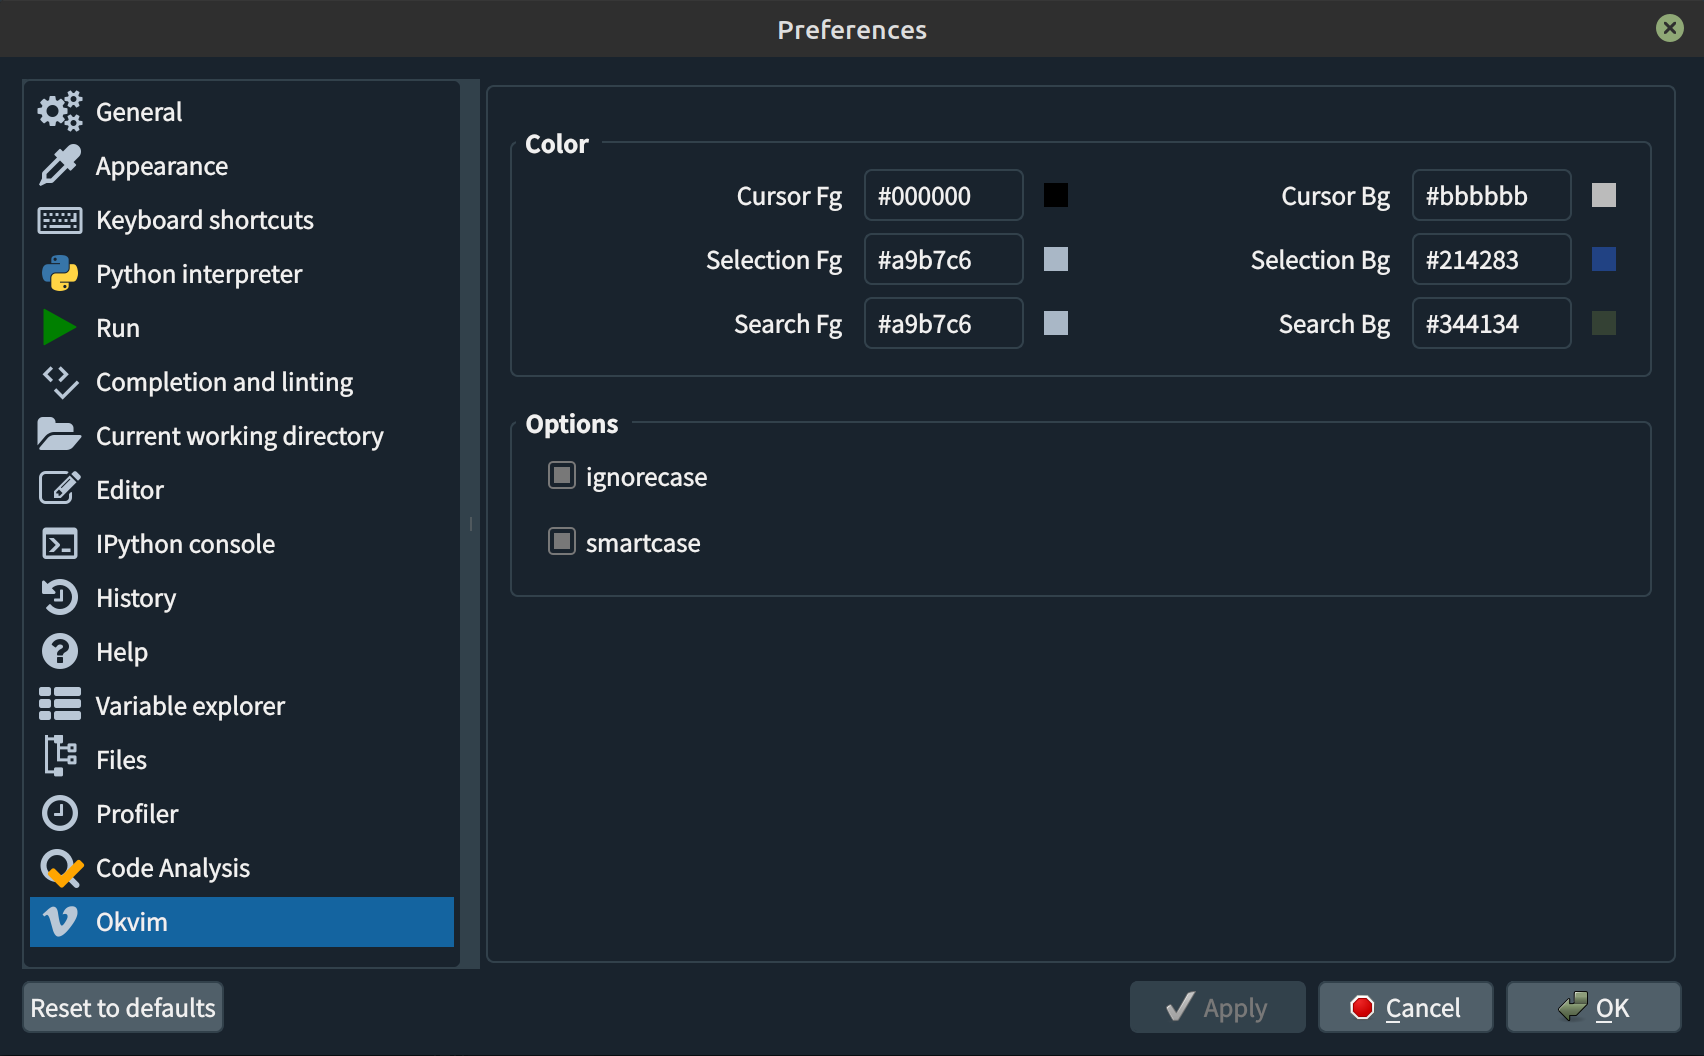
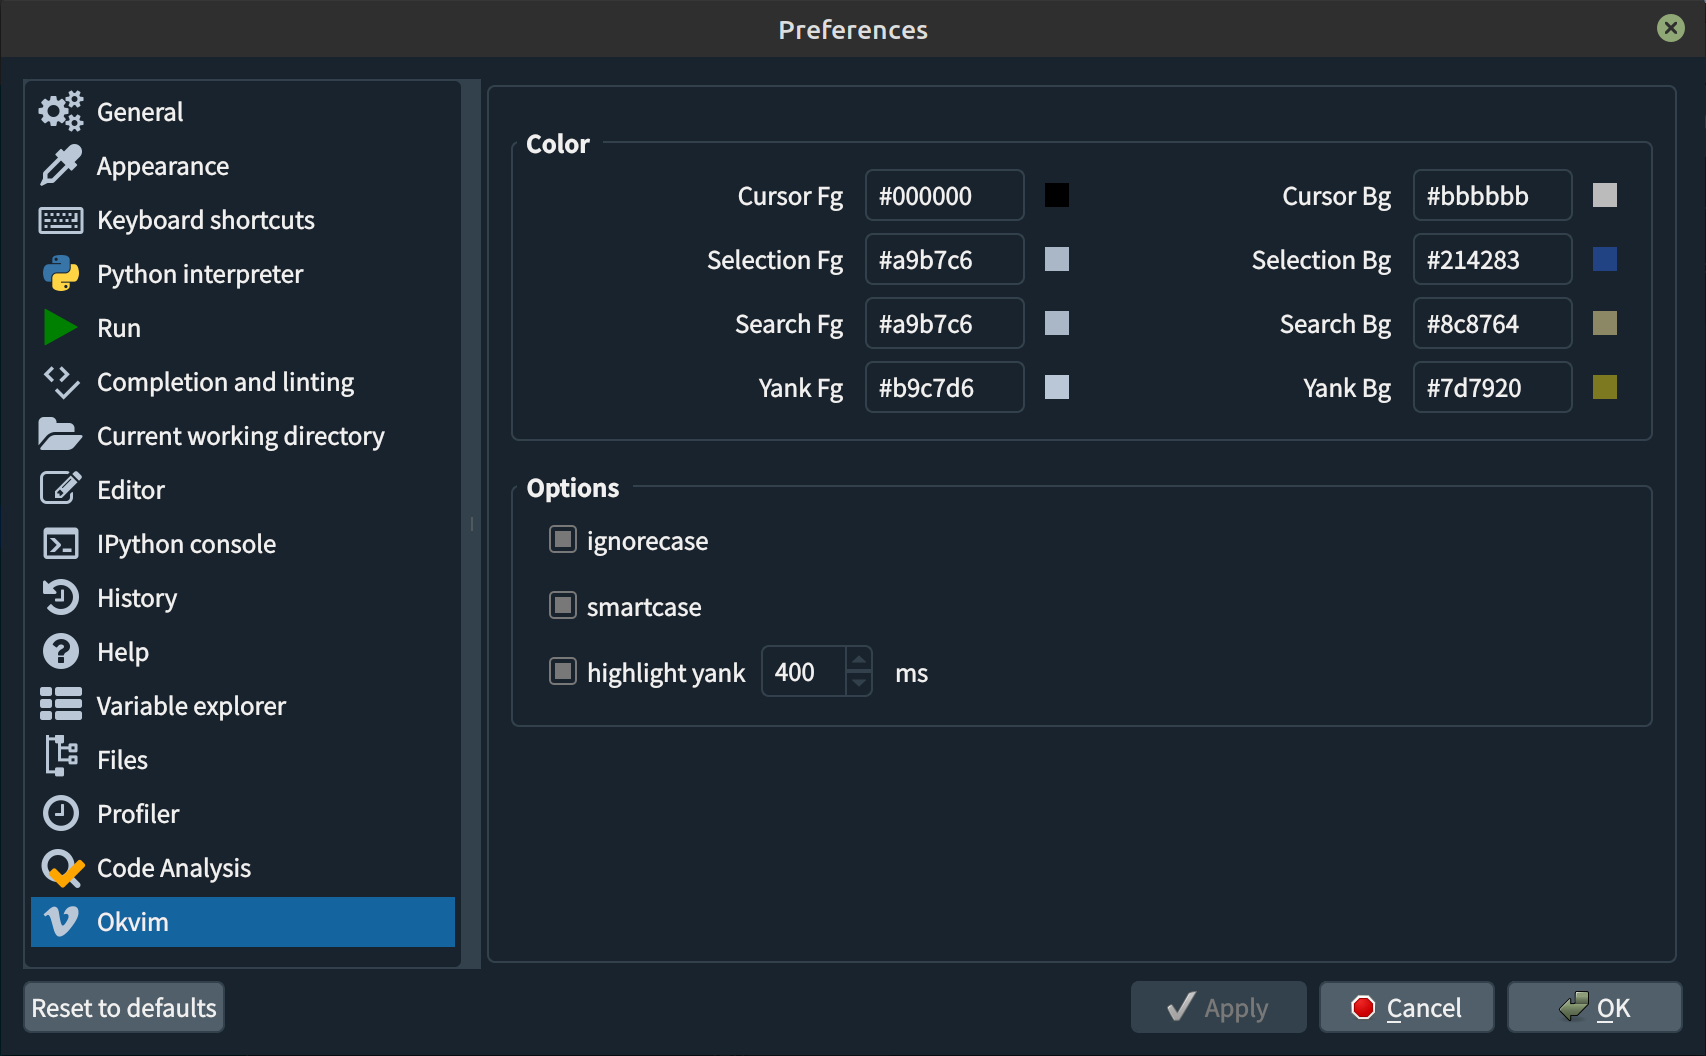
highlight after yank

diff --git a/spyder_okvim/utils/vim_status.py b/spyder_okvim/utils/vim_status.py
@@ -202,10 +202,15 @@ class VimCursor:
         self.selection.format.setForeground(QBrush(QColor('#A9B7C6')))
         self.selection.format.setBackground(QBrush(QColor('#214283')))
 
-        self.set_color()
+        self.yank_fg_color = QBrush(QColor('#B9C7D6'))
+        self.yank_bg_color = QBrush(QColor('#7D7920'))
+        self.hl_yank_dur = 400  # duration of highlight after yank
+        self.hl_yank = True
 
-    def set_color(self):
-        """Set the color of vim cursor."""
+        self.set_config_from_conf()
+
+    def set_config_from_conf(self):
+        """Set config from conf."""
         self.vim_cursor.format.setForeground(QBrush(QColor(
             CONF.get(CONF_SECTION, 'cursor_fg_color'))))
         self.vim_cursor.format.setBackground(QBrush(QColor(
@@ -216,6 +221,12 @@ class VimCursor:
         self.selection.format.setBackground(QBrush(QColor(
             CONF.get(CONF_SECTION, 'select_bg_color'))))
 
+        self.yank_fg_color = QBrush(QColor(
+            CONF.get(CONF_SECTION, 'yank_fg_color')))
+        self.yank_bg_color = QBrush(QColor(
+            CONF.get(CONF_SECTION, 'yank_bg_color')))
+        self.hl_yank_dur = CONF.get(CONF_SECTION, 'highlight_yank_duration')
+        self.hl_yank = CONF.get(CONF_SECTION, 'highlight_yank')
 
     def get_editor(self):
         """Get the editor focused."""
@@ -492,6 +503,26 @@ class VimCursor:
     def apply_motion_info_in_vline(self, motion_info: MotionInfo):
         """Apply motion info in visual mode."""
         self.set_cursor_pos_in_vline(motion_info.cursor_pos)
+
+    def highlight_yank(self, pos_start, pos_end):
+        """Highlight after yank."""
+        if self.hl_yank is False:
+            return
+
+        cursor = self.get_cursor()
+        editor = self.get_editor()
+        sel = QTextEdit.ExtraSelection()
+        sel.format.setForeground(self.yank_fg_color)
+        sel.format.setBackground(self.yank_bg_color)
+        sel.cursor = cursor
+
+        sel.cursor.setPosition(pos_start)
+        sel.cursor.setPosition(pos_end, QTextCursor.KeepAnchor)
+        editor.set_extra_selections("hl_yank", [sel])
+
+        QTimer.singleShot(
+            self.hl_yank_dur,
+            lambda: editor.clear_extra_selections("hl_yank"))
 
 
 class VimStatus(QObject):

diff --git a/spyder_okvim/confpage.py b/spyder_okvim/confpage.py
@@ -8,7 +8,7 @@
 from qtpy.QtCore import QRegExp, Qt
 from qtpy.QtGui import QRegExpValidator
 from qtpy.QtWidgets import (
-    QGridLayout, QGroupBox, QLabel, QVBoxLayout,)
+    QGridLayout, QGroupBox, QHBoxLayout, QLabel, QVBoxLayout,)
 from spyder.api.preferences import PluginConfigPage
 from spyder.config.base import _
 
@@ -18,6 +18,7 @@ class OkvimConfigPage(PluginConfigPage):
         """Create configuration page."""
         newcb = self.create_checkbox
         newce = self.create_coloredit
+        newsb = self.create_spinbox
 
         color_group = QGroupBox("Color")
         color_layout = QGridLayout()
@@ -29,6 +30,8 @@ class OkvimConfigPage(PluginConfigPage):
                 'Selection Bg': ('select_bg_color', 1, 2),
                 'Search Fg': ('search_fg_color', 2, 0),
                 'Search Bg': ('search_bg_color', 2, 2),
+                'Yank Fg': ('yank_fg_color', 3, 0),
+                'Yank Bg': ('yank_bg_color', 3, 2),
                 }
 
         for name, (option_name, idx_row, idx_col) in conf_color_info.items():
@@ -44,6 +47,12 @@ class OkvimConfigPage(PluginConfigPage):
         options_layout = QVBoxLayout()
         options_layout.addWidget(newcb("ignorecase", "ignorecase"))
         options_layout.addWidget(newcb("smartcase", "smartcase"))
+
+        hl_yank_layout = QHBoxLayout()
+        hl_yank_layout.addWidget(newcb("highlight yank", "highlight_yank"))
+        hl_yank_layout.addWidget(newsb(None, 'ms', "highlight_yank_duration",
+                                       min_=0, max_=2000, step=100))
+        options_layout.addLayout(hl_yank_layout)
 
         options_group.setLayout(options_layout)
         options_layout.addStretch(1)

diff --git a/spyder_okvim/config.py b/spyder_okvim/config.py
@@ -12,12 +12,16 @@ CONF_DEFAULTS = [
      {
       'ignorecase': True,
       'smartcase': True,
+      'highlight_yank': True,
+      'highlight_yank_duration': 400,
       'cursor_fg_color': "#000000",
       'cursor_bg_color': "#BBBBBB",
       'select_fg_color': "#A9B7C6",
       'select_bg_color': "#214283",
       'search_fg_color': "#A9B7C6",
-      'search_bg_color': "#344134"
+      'search_bg_color': "#30652F",
+      'yank_fg_color': "#A9B7C6",
+      'yank_bg_color': "#7D7920"
      }
      ),
     ('shortcuts',

diff --git a/spyder_okvim/utils/helper_action.py b/spyder_okvim/utils/helper_action.py
@@ -306,6 +306,11 @@ class HelperAction:
         if is_explicit is True and register_name == '"':
             self.vim_status.set_register('0', txt, register_type)
 
+        # highlight yank
+        if is_explicit is True and self.vim_status.is_normal():
+            if self.vim_status.running_dot_cmd is False:
+                self.vim_status.cursor.highlight_yank(sel_start, sel_end)
+
         return sel_start, sel_end
 
     def _move_cursor_after_space(self, cursor):

diff --git a/spyder_okvim/plugin.py b/spyder_okvim/plugin.py
@@ -77,5 +77,5 @@ class OkVim(SpyderPluginWidget):  # pylint: disable=R0904
     def apply_plugin_settings(self, options):
         """Apply the config settings."""
         self.vim_cmd.vim_status.search.set_color()
-        self.vim_cmd.vim_status.cursor.set_color()
+        self.vim_cmd.vim_status.cursor.set_config_from_conf()
 

diff --git a/spyder_okvim/widgets/tests/test_okvim.py b/spyder_okvim/widgets/tests/test_okvim.py
@@ -134,7 +134,10 @@ def vim_bot(editor_bot):
 
 
 def test_ui(vim_bot):
-    """Test ui."""
+    """Test ui.
+
+    Call the methods that is difficult to make test case.
+    """
     _, _, _, vim, _ = vim_bot
     vim.get_plugin_icon()
     vim.switch_to_plugin()
